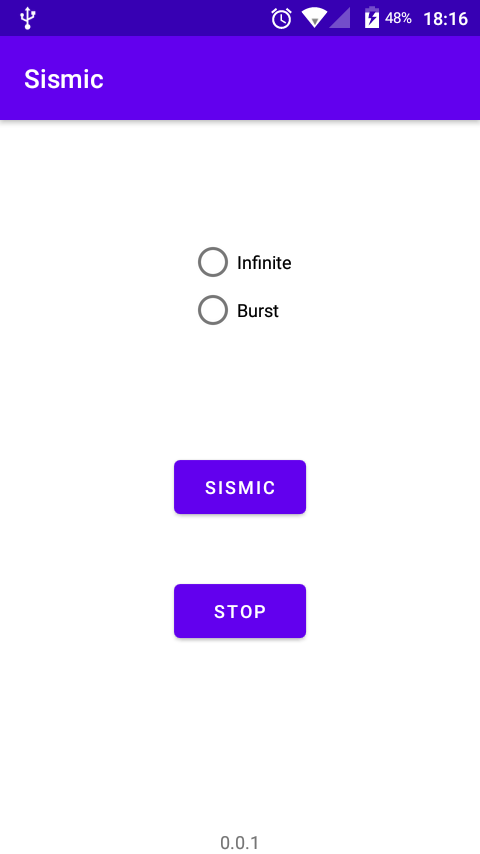
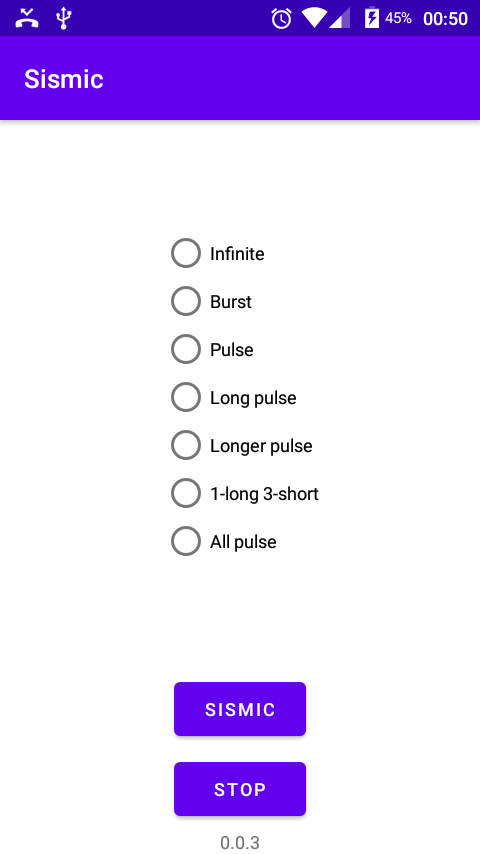
New vibes

diff --git a/app/src/main/java/town/biscuit/ondesismique/MainActivity.java b/app/src/main/java/town/biscuit/ondesismique/MainActivity.java
@@ -18,8 +18,13 @@ public class MainActivity extends AppCompatActivity {
         setContentView(R.layout.activity_main);
 
         Preset[] presets = {
-            new Preset(getString(R.string.vibe_infinite), new long[]{0, 1000, 0}, 0),
-            new Preset(getString(R.string.vibe_burst), new long[]{0, 50, 50}, 1)
+                new Preset(getString(R.string.vibe_infinite), new long[]{0, 1000, 0}, 0),
+                new Preset(getString(R.string.vibe_burst), new long[]{0, 50, 50}, 1),
+                new Preset(getString(R.string.vibe_pulse), new long[]{0, 100, 50}, 0),
+                new Preset(getString(R.string.vibe_longpulse), new long[]{0, 200, 50}, 0),
+                new Preset(getString(R.string.viber_longerpulse), new long[]{0, 300, 50}, 0),
+                new Preset(getString(R.string.vibe_1l3s), new long[]{0, 300, 50, 100, 50, 100, 50, 100, 50}, 0),
+                new Preset(getString(R.string.vibe_allpulse), new long[]{0, 300, 50, 200, 50, 100, 50}, 0),
         };
 
         RadioGroup rg = (RadioGroup) this.findViewById(R.id.radiogroup);
@@ -35,7 +40,7 @@ public class MainActivity extends AppCompatActivity {
         first.setOnClickListener(new View.OnClickListener() {
             @Override
             public void onClick(View v) {
-                int id = rg.getCheckedRadioButtonId() - 1;
+                int id = (int) rg.getCheckedRadioButtonId() - 1;
                 if(id < 0) {
                     Toast.makeText(getApplicationContext(), getString(R.string.select_reminder), Toast.LENGTH_SHORT).show();
                 } else {
@@ -52,4 +57,6 @@ public class MainActivity extends AppCompatActivity {
             }
         });
     }
+
+
 }
